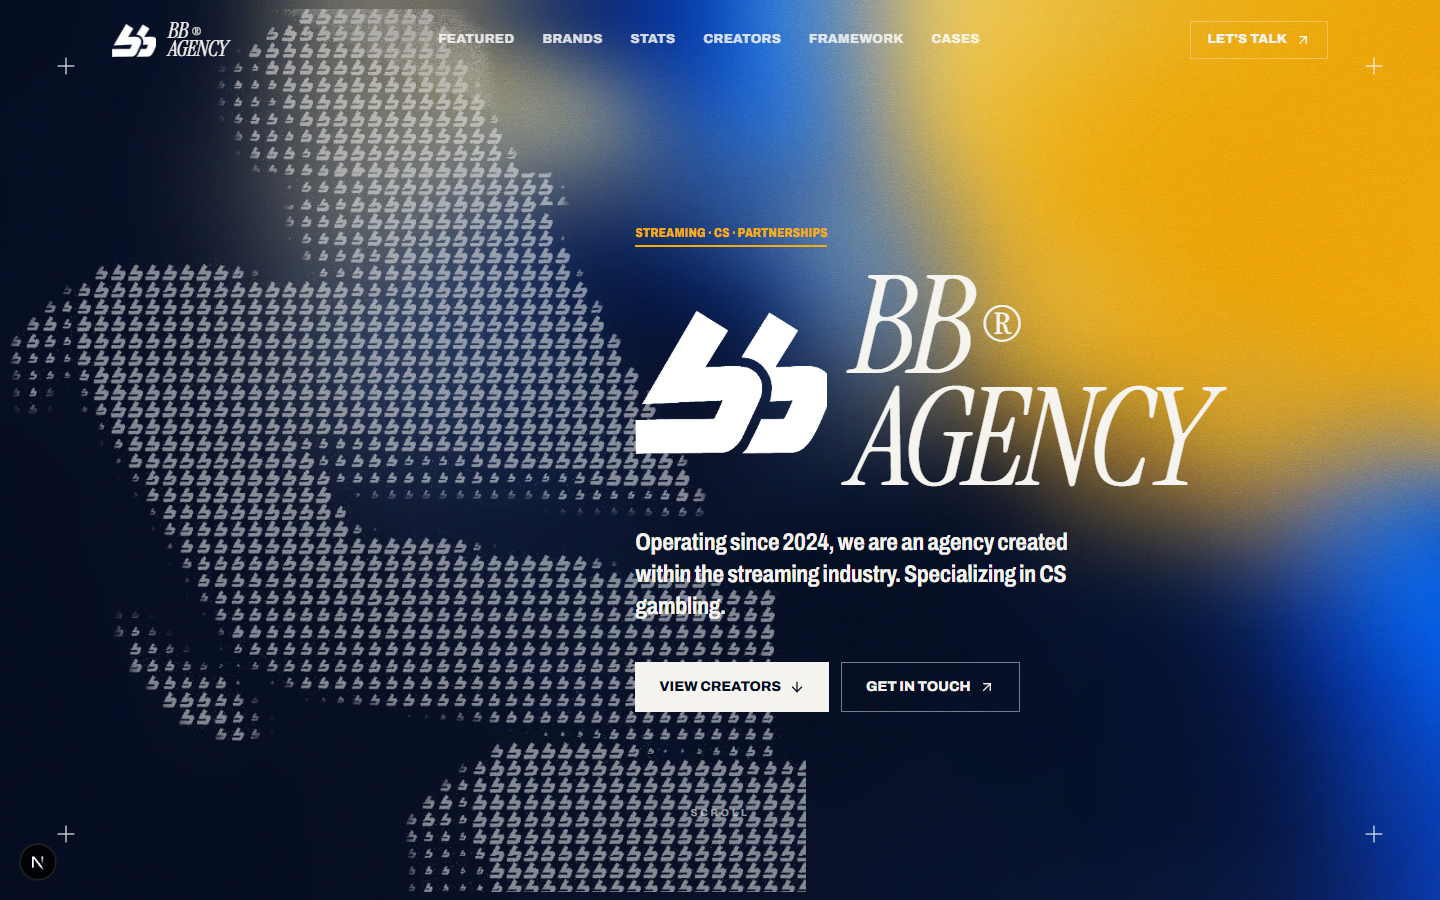
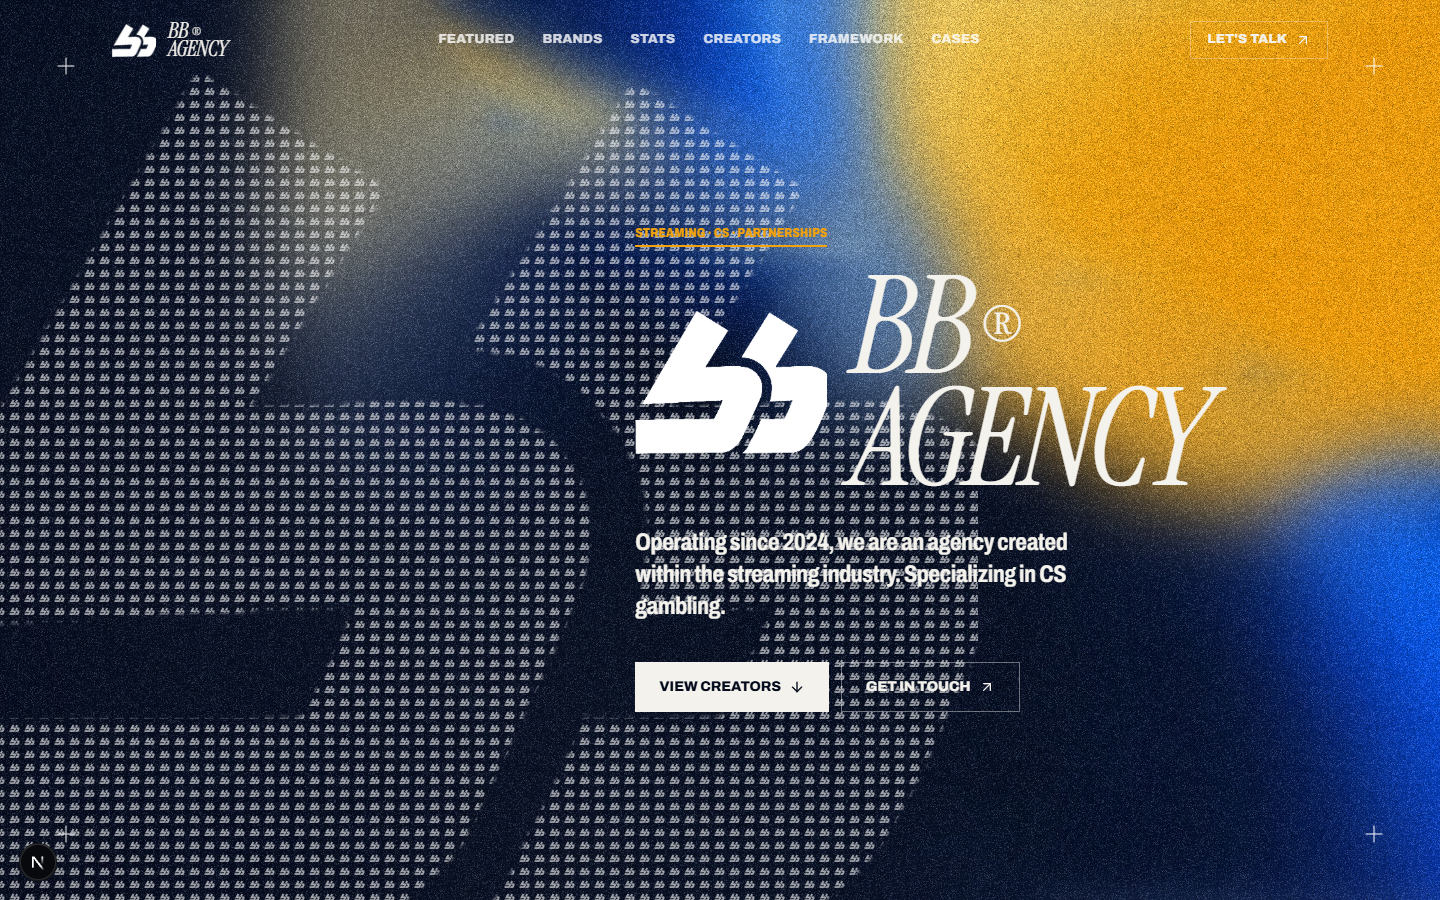
BB da capa volta ao original; fotos do Instagram pra tilia, y4s, higzao e Skipinho

diff --git a/src/app/page.tsx b/src/app/page.tsx
@@ -41,7 +41,7 @@ function Hero() {
     <section className="relative min-h-[100svh] overflow-hidden bg-ink flex items-center">
       <SlideBg n={1} />
       {/* BB gigante em pontinhos, como no slide 1 */}
-      <div className="halftone halftone-mark pointer-events-none absolute left-0 top-0 h-full w-[56%] max-sm:w-full opacity-45 [background-position:left_top]" aria-hidden />
+      <div className="halftone halftone-mark pointer-events-none absolute -left-[12vw] top-[8%] h-[95%] w-[80vw] opacity-60" aria-hidden />
       <CornerCrosses />
 
       <div className={`${wrap} grid gap-10 lg:grid-cols-12 items-center pt-28 pb-20`}>

diff --git a/src/app/globals.css b/src/app/globals.css
@@ -255,10 +255,3 @@ body {
 @media (prefers-reduced-motion: reduce) {
   .roster-card { animation: none; }
 }
-
-/* BB gigante de mini logos: recortado da capa do PDF (mesmo formato e densidade) */
-.halftone.halftone-mark {
-  background: url("/img/bb-halftone-v3.png") center / contain no-repeat;
-  -webkit-mask: none;
-  mask: none;
-}
